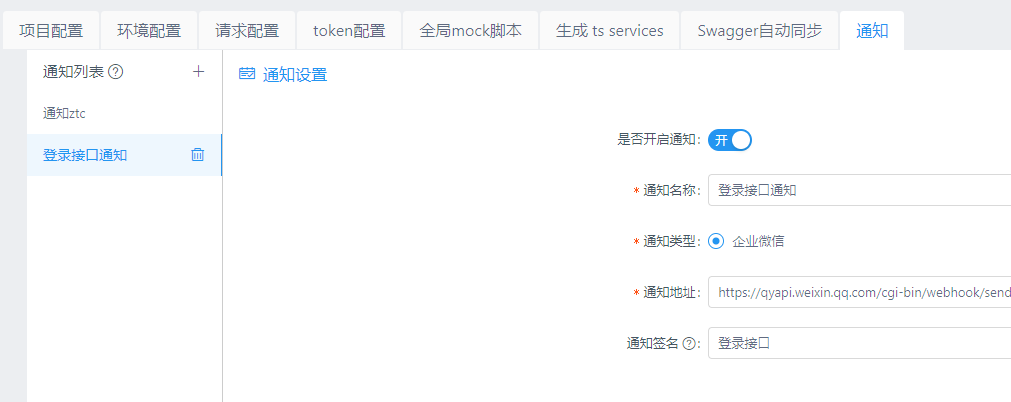
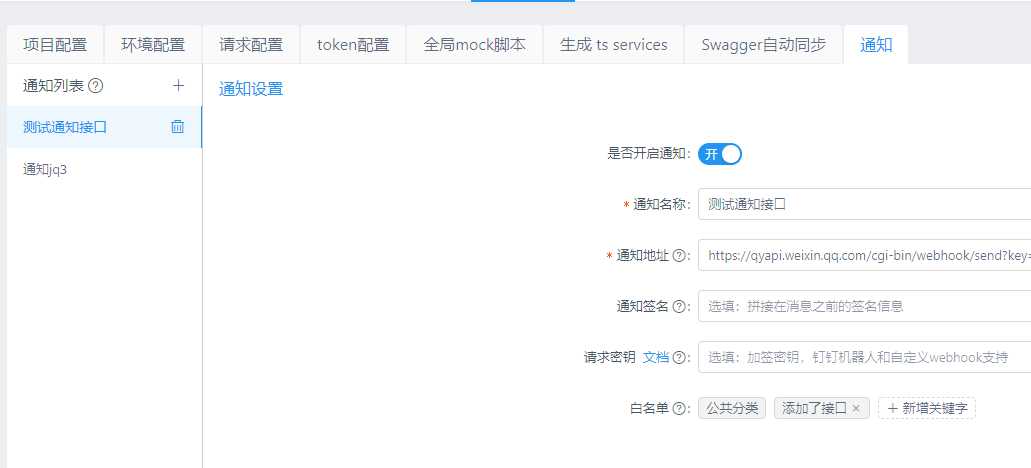
feat: 添加白名单机制

diff --git a/Page/Notifier/list.js b/Page/Notifier/list.js
@@ -1,0 +1,91 @@
+import React, { Component } from "react";
+import PropTypes from "prop-types";
+import { Tag, Input, Tooltip, Icon } from 'antd';
+
+export default class EditableTagGroup extends Component {
+  static propTypes = {
+    items: PropTypes.array,
+    changeItems: PropTypes.func
+  };
+
+  constructor(props) {
+    super(props);
+    this.state = {
+      tags: props.items || [],
+      inputVisible: false,
+      inputValue: ''
+    };
+  }
+
+  handleClose = removedTag => {
+    const { changeItems } = this.props;
+    const tags = this.state.tags.filter(tag => tag !== removedTag);
+    this.setState({ tags });
+    changeItems(tags);
+  };
+
+  showInput = () => {
+    this.setState({ inputVisible: true }, () => this.input.focus());
+  };
+
+  handleInputChange = e => {
+    this.setState({ inputValue: e.target.value });
+  };
+
+  handleInputConfirm = () => {
+    const { inputValue } = this.state;
+    const { changeItems } = this.props;
+    let { tags } = this.state;
+    if (inputValue && tags.indexOf(inputValue) === -1) {
+      tags = [...tags, inputValue];
+    }
+    this.setState({
+      tags,
+      inputVisible: false,
+      inputValue: ''
+    });
+    changeItems(tags);
+  };
+
+  saveInputRef = input => (this.input = input);
+
+  render() {
+    const { tags, inputVisible, inputValue } = this.state;
+    return (
+      <div>
+        {tags.map((tag, index) => {
+          const isLongTag = tag.length > 10;
+          const tagElem = (
+            <Tag key={tag} closable={index !== 0} onClose={() => this.handleClose(tag)}>
+              {isLongTag ? `${tag.slice(0, 10)}...` : tag}
+            </Tag>
+          );
+          return isLongTag ? (
+            <Tooltip title={tag} key={tag}>
+              {tagElem}
+            </Tooltip>
+          ) : (
+            tagElem
+          );
+        })}
+        {inputVisible && (
+          <Input
+            ref={this.saveInputRef}
+            type="text"
+            size="small"
+            style={{ width: 78 }}
+            value={inputValue}
+            onChange={this.handleInputChange}
+            onBlur={this.handleInputConfirm}
+            onPressEnter={this.handleInputConfirm}
+          />
+        )}
+        {!inputVisible && tags.length < 10 && (
+          <Tag onClick={this.showInput} style={{ background: '#fff', borderStyle: 'dashed' }}>
+            <Icon type="plus" /> 新增关键字
+          </Tag>
+        )}
+      </div>
+    );
+  }
+}

diff --git a/Page/Notifier/index.js b/Page/Notifier/index.js
@@ -4,6 +4,8 @@ import { Form, Switch, Button, Input, Tooltip, Icon, message } from "antd";
 import axios from 'axios';
 const FormItem = Form.Item;
 
+import List from "./list";
+
 // layout
 const formItemLayout = {
   labelCol: {
@@ -46,11 +48,13 @@ export default class Add extends Component {
 
   handleSubmit = async () => {
     const { form, notifier, onSubmit } = this.props;
+    const { notifier_data } = this.state;
     let params = {
       id: notifier._id,
       project_id: notifier.project_id,
-      open: this.state.notifier_data.open,
-      hook: this.state.notifier_data.hook
+      open: notifier_data.open,
+      hook: notifier_data.hook,
+      whitelist: notifier_data.whitelist
     };
     form.validateFields(async (err, values) => {
       if (!err) {
@@ -84,6 +88,14 @@ export default class Add extends Component {
   onChange = v => {
     let notifier_data = this.state.notifier_data;
     notifier_data.open = v;
+    this.setState({
+      notifier_data: notifier_data
+    });
+  }
+
+  changeWhitelist = v => {
+    let notifier_data = this.state.notifier_data;
+    notifier_data.whitelist = v;
     this.setState({
       notifier_data: notifier_data
     });
@@ -184,6 +196,19 @@ export default class Add extends Component {
               {getFieldDecorator("secret", {
                 initialValue: this.state.notifier_data.secret
               })(<Input placeholder="选填：加签密钥，钉钉机器人和自定义webhook支持" />)}
+            </FormItem>
+
+            <FormItem {...formItemLayout}
+              label={
+                <span>
+                  白名单&nbsp;
+                  &nbsp;<a href="https://github.com/congqiu/yapi-plugin-notifier/blob/master/README.md#%E7%99%BD%E5%90%8D%E5%8D%95%E9%85%8D%E7%BD%AE">文档</a>&nbsp;
+                  <Tooltip title="设置后只有消息(markdown格式)中包含白名单中任意关键词才会推送，最多添加10个">
+                    <Icon type="question-circle-o" />
+                  </Tooltip>
+                </span>
+              }>
+              {(<List items={this.state.notifier_data.whitelist} changeItems={e => this.changeWhitelist(e)} />)}
             </FormItem>
           </div>
           <FormItem {...tailFormItemLayout}>

diff --git a/controllers/notifier.js b/controllers/notifier.js
@@ -69,6 +69,7 @@ class notifierController extends baseController {
         type: tools.inferNotifierType(params.hook),
         signature: params.signature,
         secret: params.secret,
+        whitelist: params.whitelist,
         uid: this.getUid()
       }
       let notifier;
@@ -120,6 +121,10 @@ class notifierController extends baseController {
         return (ctx.body = yapi.commons.resReturn(null, 405, '没有权限操作'));
       }
 
+      if (params.hook.trim().indexOf("http") === -1) {
+        return (ctx.body = yapi.commons.resReturn(null, 400, '通知地址只支持http请求'));
+      }
+
       let result = await new notifier({}, {}).test({
         open: true,
         notifier_name: params.notifier_name,
@@ -129,9 +134,9 @@ class notifierController extends baseController {
         secret: params.secret
       });
 
-      ctx.body = yapi.commons.resReturn(result);
+      ctx.body = yapi.commons.resReturn(result, result ? 0 : 400, result ? "发送成功" : "请检查相关参数");
     } catch (e) {
-      ctx.body = yapi.commons.resReturn(null, 402, e.message);
+      ctx.body = yapi.commons.resReturn(null, 401, e.message);
     }
   }
 }

diff --git a/utils/notifier.js b/utils/notifier.js
@@ -5,7 +5,7 @@ const tools = require('./tools');
 const { TYPE } = require("./const");
 
 class Notifier {
-  constructor(message, config) {
+  constructor(message = {}, config = {}) {
     this.message = message;
     this.config = config;
 
@@ -13,7 +13,7 @@ class Notifier {
   }
 
   async send() {
-    if (!this.message || !this.message.content || this.message.content.length === 0) {
+    if (!this.message.content || this.message.content.length === 0) {
       yapi.commons.log('yapi-plugin-notifier: 无通知内容');
       return;
     }
@@ -46,6 +46,9 @@ class Notifier {
 
   async sender(notifier, content) {
     if (!notifier.open) {
+      return;
+    }
+    if (notifier.whitelist && notifier.whitelist.length > 0 && !notifier.whitelist.some(v => content.indexOf(v) > -1)) {
       return;
     }
     try {

diff --git a/models/notifier.js b/models/notifier.js
@@ -51,6 +51,8 @@ class notifierModel extends baseModel {
       // 地址
       hook: String,
 
+      whitelist: [],
+
       add_time: Number,
       up_time: Number
     };

diff --git a/README.md b/README.md
@@ -10,6 +10,7 @@ yapi-plugin-notifier
 - [x] 支持钉钉机器人
 - [x] 支持签名密钥更安全（企业微信不支持）
 - [x] 支持测试发送
+- [x] 支持关键词白名单
 - [ ] 其他机器人
 
 ## 安装
@@ -34,8 +35,24 @@ yapi-plugin-notifier
 
 ## 使用
 
+#### 机器人配置
+
 ![配置](./screenshot/setting.png)
 在每个项目的设置处新增通知设置，根据需求选择相应的配置，直接在通知地址处输入机器人地址或者webhook的url即可。
+
+#### 白名单配置
+
+消息白名单目前检测是markdown格式的消息是否包含任意一个白名单中的关键词。怎么看消息中有哪些关键词？切换到动态中，查找到希望被自定义通知收到的消息，然后选择其中部分文字作为关键词即可。
+
+如果不设置白名单则表示任意消息都会被推送，设置后只有消息中包含白名单中任意关键词才会推送。
+
+![关键词示例](./screenshot/whitelist.png)
+
+注意不要把**链接文本和普通文本**作为一个关键词，如上图可以`公共分类`或者`添加了接口`作为关键词，但是不要使用`公共分类 添加了接口`作为关键词。
+
+#### 测试发送
+
+机器人配置完成之后，点击**测试发送**即可发送一条测试信息到目标机器人中。
 
 ## 更新
 
@@ -51,5 +68,6 @@ yapi-plugin-notifier
 
 1. 企业微信每个机器人发送的消息不能超过20条/分钟，最新内容参考[消息发送频率限制](https://work.weixin.qq.com/api/doc/90000/90136/91770#%E6%B6%88%E6%81%AF%E5%8F%91%E9%80%81%E9%A2%91%E7%8E%87%E9%99%90%E5%88%B6)，建议在配置短时间频繁更改的情况下关闭通知的开关。
 2. 钉钉每个机器人每分钟最多发送20条，参考[消息发送频率限制](https://ding-doc.dingtalk.com/doc#/serverapi2/qf2nxq)。
+3. 由于检测的消息是markdown格式，所以设置时尽量不要设置链接中容易被包含的http之类的，同理一个关键词不要包含链接文本和非链接文本。
 
 感谢[https://github.com/zgs225/yapi-plugin-dding](https://github.com/zgs225/yapi-plugin-dding)提供的参考，一个受欢迎的钉钉机器人推送插件。
